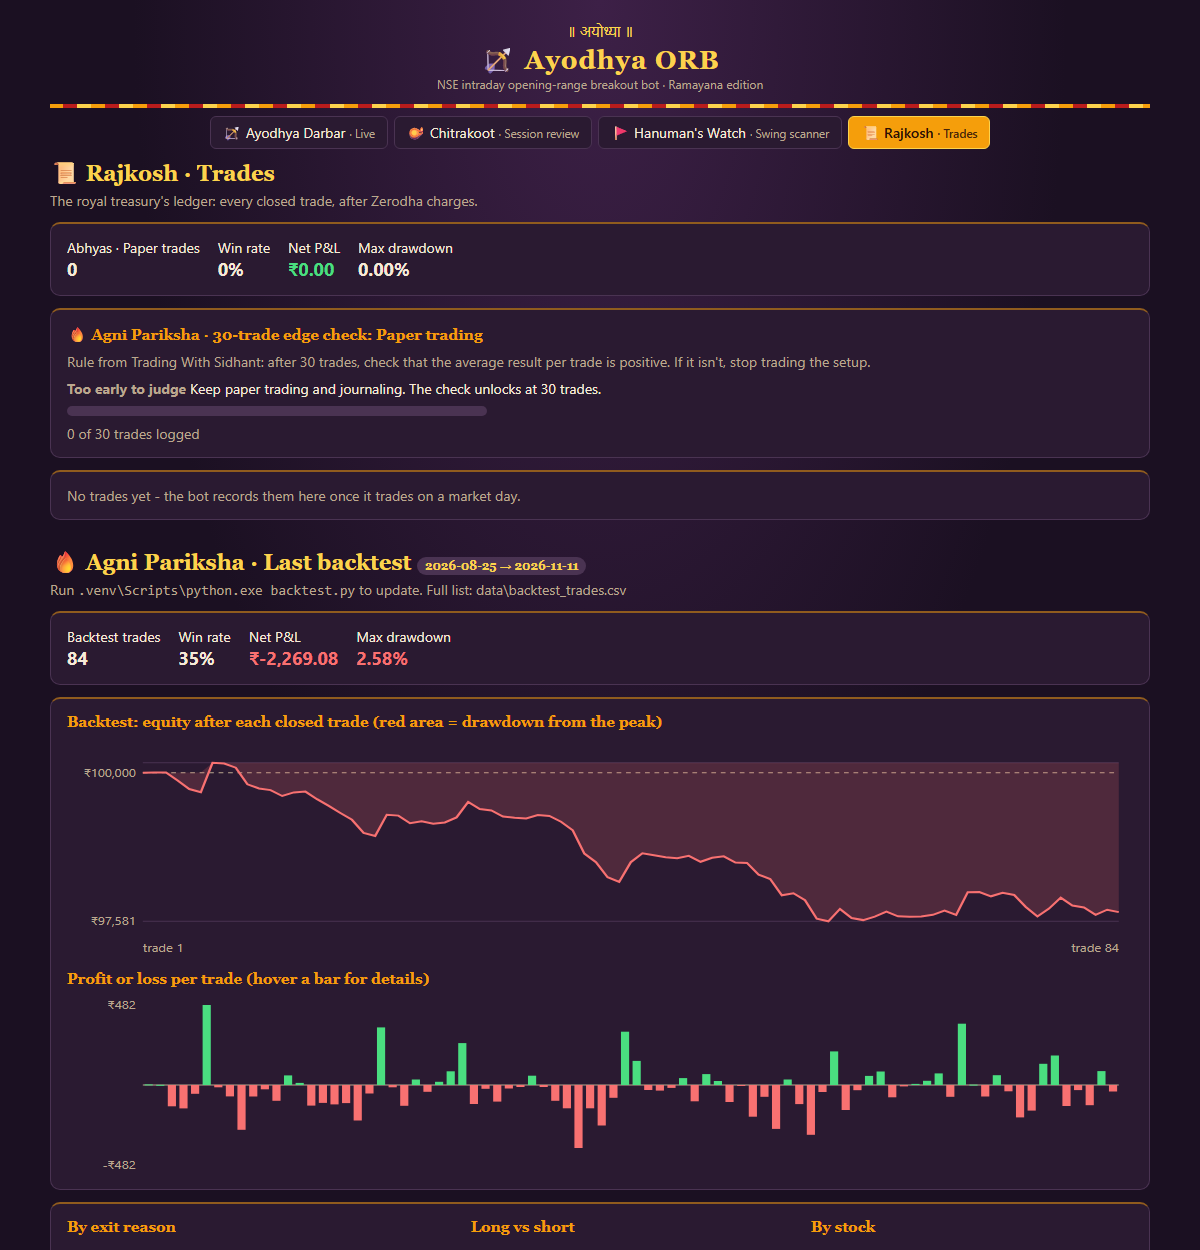
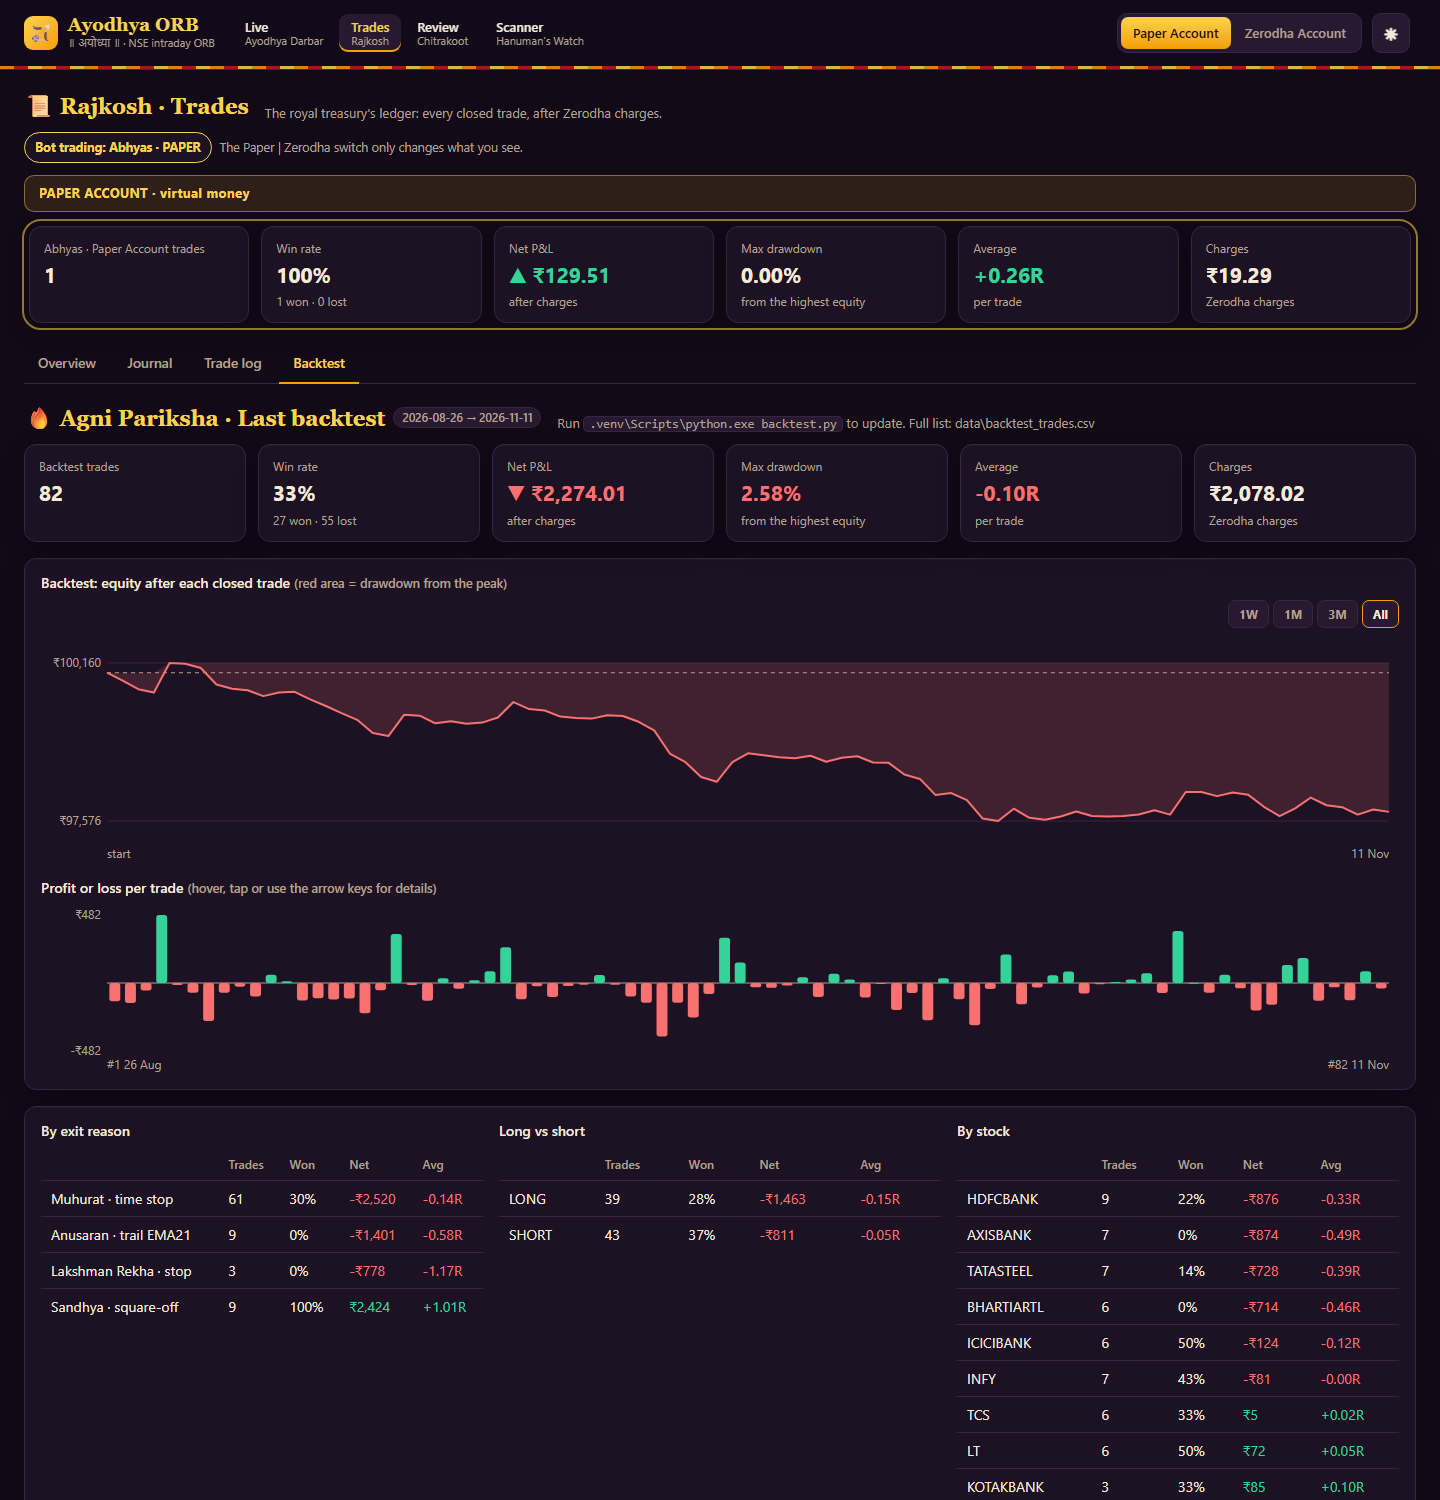
Dashboard redesign item 8: accessibility, page size, screenshots, docs
- Colours: every text colour meets WCAG AA (4.5:1) on every background in
  both themes (light gold/amber darkened slightly); tested.
- Structure: language, skip link, one main heading, current-page marks,
  labelled theme button, keyboard-readable charts, focus outlines and
  reduced motion on every page; tested.
- Size budgets tested (Live ~51 KB, Trades ~144 KB with 82 backtest trades).
- Looking at every page and data address writes no file and changes no
  setting; posting to the new data address does nothing (tested).
- Trades tabs open at the top of the page; ?tab=backtest also picks a tab.
- README: new section on themes, phone layout, charts and live updates;
  new screenshots (sample figures) including phone, light theme and the
  Zerodha view. Tests use sample review/scanner data (no price fetching).

diff --git a/tests/test_dashboard_a11y.py b/tests/test_dashboard_a11y.py
@@ -1,0 +1,153 @@
+"""Item 8: readable colours in both themes, accessible page structure, small pages, and looking at any
+page or data address never writes a file or changes a setting."""
+
+import csv
+import json
+import os
+import re
+import threading
+import urllib.error
+import urllib.request
+
+import pytest
+
+import accounts
+import config as C
+import theme as T
+import web
+
+
+def _lum(h):
+    h = h.lstrip("#")
+    r, g, b = (int(h[i:i + 2], 16) / 255 for i in (0, 2, 4))
+    f = lambda c: c / 12.92 if c <= 0.03928 else ((c + 0.055) / 1.055) ** 2.4  # noqa: E731
+    return 0.2126 * f(r) + 0.7152 * f(g) + 0.0722 * f(b)
+
+
+def contrast(a, b):
+    hi, lo = sorted((_lum(a), _lum(b)), reverse=True)
+    return (hi + 0.05) / (lo + 0.05)
+
+
+@pytest.mark.parametrize("theme", ["dark", "light"])
+def test_text_colours_meet_wcag_aa(theme):
+    p = T.PALETTES[theme]
+    for fg in ("text", "muted", "up", "dn", "gold", "accent", "warn", "info"):
+        for bg in ("bg", "surface", "surface-2"):
+            assert contrast(p[fg], p[bg]) >= 4.5, (theme, fg, bg, round(contrast(p[fg], p[bg]), 2))
+    assert contrast(p["trail"], p["surface"]) >= 3.0                      # chart line (graphics: 3:1)
+    assert contrast(p["accent-ink"], p["accent"]) >= 4.5                  # text on the main buttons
+    assert contrast(p["banner-fg"], p["banner-bg"]) >= 4.5
+
+
+REVIEW = {"day": "2026-11-16", "days": ["2026-11-13", "2026-11-16"], "built": "2026-11-16T16:00", "signals": 1, "wins": 1,
+          "total_r": 0.65, "settings": {"TARGET_R": 0},
+          "rows": {"ITC": {"closes": [284.5, 290.1, 295.6], "or_low": 284.0, "or_high": 286.75, "day_change_pct": 3.78,
+                           "direction": "LONG", "r": 0.65, "signal_time": "09:30", "entry": 290.85, "stop": 284.0,
+                           "target": None, "exit_reason": "square-off", "exit_time": "15:00", "exit": 295.6},
+                   "SBIN": {"closes": [1090, 1089], "or_low": 1083.9, "or_high": 1093.5, "day_change_pct": -0.1,
+                            "note": "inside range"}}}
+SCAN = {"day": "2026-11-16", "built": "2026-11-16T16:00", "counts": {"20-day high breakout": 1}, "errors": [],
+        "rows": {"TCS": {"setups": ["20-day high breakout"], "closes": [3300, 3350, 3410], "close": 3410.0,
+                         "change_pct": 1.2, "rsi": 64, "above_200dma": True, "from_52w_high_pct": -3.3,
+                         "stop": 3330.0, "target": 3570.0, "qty": 6}}}
+
+
+@pytest.fixture
+def server(monkeypatch):
+    import review
+    import scanner
+    monkeypatch.setattr(review, "latest", lambda *a, **k: REVIEW)        # no price fetching in tests
+    monkeypatch.setattr(scanner, "latest", lambda *a, **k: SCAN)
+    monkeypatch.setattr(web, "STATUS_FILE", C.DATA_DIR + "/status.json")
+    monkeypatch.setattr(web, "login_status", lambda: (False, "Not logged in today"))
+    monkeypatch.setattr(web, "login_url", lambda: "https://kite.zerodha.com/connect/login?api_key=x&v=3")
+
+    def no_kite():
+        raise accounts.LoginNeeded("Not logged in to Zerodha today.")
+
+    monkeypatch.setattr(accounts, "_kite_client", no_kite)
+    srv = web.ThreadingHTTPServer(("127.0.0.1", 0), web.Handler)
+    monkeypatch.setattr(C, "WEB_PORT", srv.server_address[1])
+    threading.Thread(target=srv.serve_forever, daemon=True).start()
+    yield f"http://127.0.0.1:{srv.server_address[1]}"
+    srv.shutdown()
+
+
+def get(url):
+    try:
+        with urllib.request.urlopen(url) as r:
+            return r.status, r.read().decode("utf-8-sig")
+    except urllib.error.HTTPError as e:
+        return e.code, ""
+
+
+def sample_trades(n=82):
+    with open(os.path.join(C.DATA_DIR, "backtest_trades.csv"), "w", newline="", encoding="utf-8") as f:
+        w = csv.DictWriter(f, fieldnames=["opened", "closed", "symbol", "direction", "qty", "entry", "exit",
+                                          "reason", "charges", "net", "r"])
+        w.writeheader()
+        for i in range(n):
+            w.writerow({"opened": f"2026-09-{1 + i % 28:02d} 09:45:00+05:30", "closed": f"2026-09-{1 + i % 28:02d} 11:00:00+05:30",
+                        "symbol": ["ITC", "SBIN", "TCS"][i % 3], "direction": "LONG" if i % 2 else "SHORT", "qty": "10",
+                        "entry": "100", "exit": "101", "reason": "time stop", "charges": "20", "net": str(i % 7 - 3),
+                        "r": "0.1"})
+
+
+PAGES = ["/", "/?view=zerodha", "/trades", "/trades?view=zerodha", "/review", "/scanner", "/journey?src=backtest&i=0"]
+
+
+def test_page_structure_is_accessible(server):
+    sample_trades(5)
+    for path in PAGES:
+        code, body = get(server + path)
+        assert code == 200, path
+        assert "<html lang='en'>" in body and "name='viewport'" in body, path
+        assert body.count("<h1") >= 1 and "Skip to content" in body and "id='main'" in body, path
+        assert "aria-current='page'" in body and "aria-label='Switch theme'" in body, path
+        assert "prefers-reduced-motion" in body and ":focus-visible" in body, path
+        for box in re.findall(r"<div class='chart[^>]*>", body):
+            assert "role='img'" in box and "aria-label=" in box and "tabindex='0'" in box, path
+
+
+def test_pages_stay_small(server):
+    sample_trades(82)
+    budgets = {"/": 120_000, "/trades": 350_000, "/review": 120_000, "/scanner": 120_000, "/api/live": 60_000}
+    for path, limit in budgets.items():
+        _, body = get(server + path)
+        assert len(body.encode("utf-8")) < limit, (path, len(body))
+
+
+def snapshot():
+    out = {}
+    for root, _, files in os.walk(C.DATA_DIR):
+        for name in files:
+            p = os.path.join(root, name)
+            out[p] = open(p, "rb").read()
+    return out
+
+
+def test_looking_never_changes_anything(server):
+    sample_trades(5)
+    with open(os.path.join(C.DATA_DIR, "status.json"), "w", encoding="utf-8") as f:
+        json.dump({"mode": "paper", "time": "2026-11-16T10:00:00+05:30"}, f)
+    before = snapshot()
+    flags = (C.DRY_RUN, C.CONFIRM_LIVE, C.is_live(), C.PAPER_START_INR, C.MAX_DAILY_LOSS_PCT, C.RISK_PER_TRADE_PCT)
+    for path in PAGES + ["/api/live", "/api/live?view=zerodha", "/api/account?view=paper", "/api/status",
+                         "/journal.csv?view=paper&period=week", "/trades?view=paper&period=month"]:
+        get(server + path)
+    assert snapshot() == before
+    assert (C.DRY_RUN, C.CONFIRM_LIVE, C.is_live(), C.PAPER_START_INR, C.MAX_DAILY_LOSS_PCT,
+            C.RISK_PER_TRADE_PCT) == flags
+
+
+def test_no_new_ways_to_change_things(server):
+    """The data address is read-only: posting to it does nothing (the only actions are the old ones)."""
+    before = snapshot()
+    req = urllib.request.Request(server + "/api/live", data=b"view=zerodha", method="POST",
+                                 headers={"Origin": server})
+    try:
+        urllib.request.urlopen(req)
+    except urllib.error.HTTPError:
+        pass
+    assert snapshot() == before

diff --git a/web.py b/web.py
@@ -1121,7 +1121,10 @@ TRADES_JS = """
     if(push)try{history.replaceState(null,'','#'+id)}catch(e){}
     document.dispatchEvent(new CustomEvent('regionsupdated'));}
   tabs.forEach(function(t){t.addEventListener('click',function(ev){ev.preventDefault();pick(t.getAttribute('data-tab'),true)})});
-  if(tabs.length)pick((location.hash||'').slice(1)||tabs[0].getAttribute('data-tab'),false);
+  var asked=(location.hash||'').slice(1); try{asked=asked||new URLSearchParams(location.search).get('tab')||''}catch(e){}
+  if(tabs.length){pick(asked||tabs[0].getAttribute('data-tab'),false);
+    // a link like /trades#journal opens that tab with the page at the top (the tabs stay in view)
+    if(location.hash)setTimeout(function(){window.scrollTo(0,0)},0);}
   // trade log filters
   document.querySelectorAll('.tlog').forEach(function(card){
     var sels=[].slice.call(card.querySelectorAll('select[data-f]')), count=card.querySelector('[data-count]');

diff --git a/theme.py b/theme.py
@@ -166,7 +166,7 @@ PALETTES = {
     "light": {
         "bg": "#f7f2ea", "surface": "#ffffff", "surface-2": "#f8f1e6", "border": "#e6dac8",
         "text": "#2a1f17", "muted": "#6c5e50", "accent": "#c2410c", "accent-ink": "#ffffff",
-        "gold": "#a16207", "up": "#047857", "dn": "#b91c1c", "warn": "#a16207", "info": "#6d28d9",
+        "gold": "#915a00", "up": "#047857", "dn": "#b91c1c", "warn": "#915a00", "info": "#6d28d9",
         "trail": "#7c3aed", "live": "#b91c1c", "up-bg": "#e7f6ef", "dn-bg": "#fdecec",
         "warn-bg": "#fdf3dc", "banner-bg": "#fdf3dc", "banner-fg": "#7c2d12",
         "shadow": "0 1px 2px rgba(60,40,20,.06), 0 6px 18px rgba(60,40,20,.06)",

diff --git a/tests/test_dashboard_live.py b/tests/test_dashboard_live.py
@@ -18,6 +18,11 @@ IST = dt.timezone(dt.timedelta(hours=5, minutes=30))
 
 @pytest.fixture
 def server(monkeypatch):
+    import review
+    import scanner
+    from test_dashboard_a11y import REVIEW, SCAN
+    monkeypatch.setattr(review, "latest", lambda *a, **k: REVIEW)        # no price fetching in tests
+    monkeypatch.setattr(scanner, "latest", lambda *a, **k: SCAN)
     monkeypatch.setattr(web, "STATUS_FILE", C.DATA_DIR + "/status.json")
     monkeypatch.setattr(web, "login_status", lambda: (False, "Not logged in today"))
     monkeypatch.setattr(web, "login_url", lambda: "https://kite.zerodha.com/connect/login?api_key=x&v=3")

diff --git a/README.md b/README.md
@@ -65,7 +65,7 @@ On a weekday (not an NSE holiday), **before 9:15 AM IST**:
 
 1. **Double-click `2-START-BOT.bat`.** The dashboard opens and the bot starts in **PAPER** mode.
 2. Leave the black window open and the PC awake. Look at the dashboard whenever you like:
-   it refreshes every 20 seconds.
+   its figures update by themselves every 10 seconds, without reloading the page.
 3. The bot takes trades from about 9:45 AM, closes everything by **3:10 PM**, and **stops by itself at 3:35 PM**.
 
 To stop early, click **Stop bot** on the dashboard, or just close the black window.
@@ -82,10 +82,31 @@ To undo it, double-click `5-UNSCHEDULE.bat`.
 
 | Page | What you see |
 |---|---|
-| 🏹 **Ayodhya Darbar · Live** | Is the bot running? The **account card** (see below), open positions (profit in ₹ and R, how far the stop is, where the EMA trail is, when the 1-hour time stop is checked, time in trade), every stock's opening range and why it is or isn't a trade, recent events, NSE holiday calendar, Pause/Stop buttons |
+| 🏹 **Ayodhya Darbar · Live** | A **status bar** (market open, bot running, the mode it trades in, price data and delay, Zerodha login), the account's **key figures** (equity, available funds, today's P&L, open P&L, trades used of 4, daily loss limit used), **today's equity chart**, open positions as cards (profit in ₹ and R, where the price sits between the stop and the target, the EMA trail, the 1-hour time-stop check, time in trade), every stock's opening range and status, Pause/Stop (both ask first), the opening balance, Zerodha login, recent events, NSE calendar and limits |
 | 🪔 **Chitrakoot · Session review** | Pick any recent trading day. For each stock: a mini chart, whether the rules fired, and how the trade would have ended. Each trade also shows the **Time Machine**: the odds from 10,000 replays of that stock's own moves, a plain verdict ("coin flip", "leans toward the stop"…) and the rule's real track record over 60 days |
 | 🚩 **Hanuman's Watch · Swing scanner** | Nifty 50 stocks with a multi-day setup on the last daily candle (20-day breakout, bull flag, 20-day average reclaim, oversold, oversold bounce), with a suggested stop, target and quantity. **Research only: the bot doesn't trade these** |
-| 📜 **Rajkosh · Trades** | An **equity curve** (with drawdowns shaded), a **profit/loss bar per trade**, breakdowns **by exit reason, long vs short and stock**, every trade with a **chart** link (the day's candles with entry, exit, stop and trail drawn on), the last backtest shown the same way, and the **30-trade edge check**: after 30 trades it tells you whether the average result per trade is positive, and to stop if it isn't |
+| 📜 **Rajkosh · Trades** | Key figures, then tabs: **Overview** (equity curve with drawdowns shaded and 1W/1M/3M/All ranges, profit/loss per trade and per day, breakdowns by exit reason, side and stock, and the **30-trade edge check**), **Journal** (Daily / Weekly / Monthly), **Trade log** (filter by stock, side and result; each trade links to its **chart** with entry, exit, stop and trail drawn on) and **Backtest** |
+
+### Look and feel: light and dark, desktop and phone
+
+- **Themes:** dark (night sky, saffron and gold) and light (ivory and saffron). The dashboard follows your PC's or
+  phone's setting; the ☀/☾ button in the header switches, and your browser remembers the choice.
+- **Desktop:** page tabs and the Paper | Zerodha switch in the header; a wide two-column layout.
+- **Phone:** a bottom bar (Live, Trades, Review, Scanner), the account switch across the top, figures in a
+  2-column grid, and tables that turn into one card per row.
+- **Charts:** hover, tap or use the arrow keys to read exact values. They draw at your screen's real size,
+  so labels stay readable on a phone.
+- **Live updates:** the Live page updates its figures in place every 10 seconds (it pauses while the tab is
+  hidden) and shows an offline warning if it can't reach the bot. Nothing reloads, so what you're typing
+  in the opening-balance form is never lost.
+- Everything is built in: no web fonts, no internet libraries. Profit and loss always carry ▲▼ or +/−, not
+  only colour. Pages are keyboard-friendly and respect "reduce motion".
+
+| Phone (dark) | Light theme |
+|---|---|
+| ![Live page on a phone](docs/screenshots/08-phone-live.jpg) | ![Live page, light theme](docs/screenshots/09-live-light.png) |
+
+The screenshots use sample figures.
 
 ### Paper opening balance
 
@@ -116,8 +137,10 @@ switching never changes a setting or places an order.
   It needs the day's Zerodha login and reads only Kite's balance and positions; it can't place, change or
   cancel an order. Balances are kept in memory for 15 seconds and never saved. The Trades page shows only
   the trades the bot placed in live mode.
-- The card refreshes every 10 seconds, shows when it was last updated, and warns about stale data, slow
-  prices, login problems and failed refreshes (it keeps the last good values and says when they're from).
+- The figures refresh every 10 seconds, show when they were last updated, and warn about stale data, slow
+  prices, login problems and failed refreshes (they keep the last good values and say when they're from).
+
+![Zerodha Account view (not logged in)](docs/screenshots/07-zerodha-account.png)
 
 ### Daily journal, weekly and monthly reports
 

diff --git a/docs/STRATEGY.md b/docs/STRATEGY.md
@@ -112,6 +112,7 @@ On the 84 backtest trades it says **No edge** (−0.10R per trade, range −0.21
 | `data_kite.py` | Real-time prices and long history from Kite Connect (paid Connect plan); `data_kite.py check` |
 | `marketdata.py` | Picks Yahoo or Kite from `DATA_SOURCE`, falling back to Yahoo if Kite isn't usable |
 | `web.py` | Dashboard (Live / Session review / Swing scanner / Trades) + Zerodha login on 127.0.0.1:5000 |
+| `webui.py`, `chartjs.py` | Dashboard look (light/dark themes, page frame, phone navigation) and the interactive charts (display only) |
 | `review.py`, `timemachine.py`, `scanner.py` | Session review, Time Machine, swing scanner |
 | `holidays.py`, `nse_holidays.json` | NSE trading calendar |
 | `backtest.py` | Portfolio backtest |
